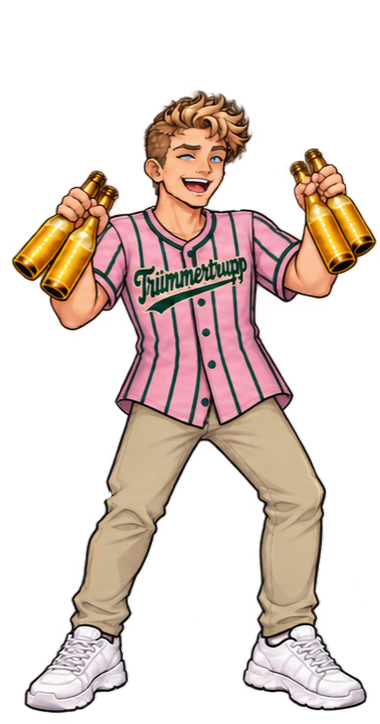
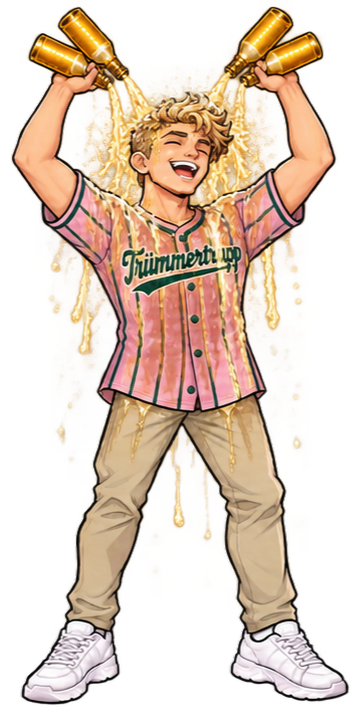
New Animations DJ/Bumsi

diff --git a/src/config/characterSkins.js b/src/config/characterSkins.js
@@ -352,6 +352,11 @@ new URL(
 '../assets/characters/Bumsi/skins/jersey/freude/bumsi_jersey_freude5.png',
 import.meta.url,
 ).href;
+const bumsiJerseyFreude06 =
+new URL(
+'../assets/characters/Bumsi/skins/jersey/freude/bumsi_jersey_freude6.png',
+import.meta.url,
+).href;
 
 
 const djJerseyPortrait =
@@ -411,7 +416,16 @@ new URL(
 '../assets/characters/DJ_PengPear/skins/jersey/freude/dj_jersey_freude4.png',
 import.meta.url,
 ).href;
-
+const djJerseyFreude05 =
+new URL(
+'../assets/characters/DJ_PengPear/skins/jersey/freude/dj_jersey_freude5.png',
+import.meta.url,
+).href;
+const djJerseyFreude06 =
+new URL(
+'../assets/characters/DJ_PengPear/skins/jersey/freude/dj_jersey_freude6.png',
+import.meta.url,
+).href;
 
 const zeckeJerseyPortrait =
 new URL(
@@ -597,17 +611,17 @@ export const CHARACTER_SKINS =
             success:{
                 frames:
                   Object.freeze([
-                    djJerseyFreude01,
                     djJerseyFreude02,
                     djJerseyFreude03,
                     djJerseyFreude04,
-                    djJerseyFreude04,
-                    djJerseyIdle01
+                    djJerseyFreude05,
+                    djJerseyFreude06,
+                    djJerseyFreude06
                   
                   ]),
 
                 frameDurationMs:
-                  150,
+                  180,
             }
           })
       }),
@@ -665,12 +679,13 @@ export const CHARACTER_SKINS =
                     bumsiJerseyFreude02,
                     bumsiJerseyFreude03,
                     bumsiJerseyFreude04,
-                    bumsiJerseyFreude05
+                    bumsiJerseyFreude05,
+                    bumsiJerseyFreude06
                   
                   ]),
 
                 frameDurationMs:
-                  150,
+                  180,
             }
           })
       }),
